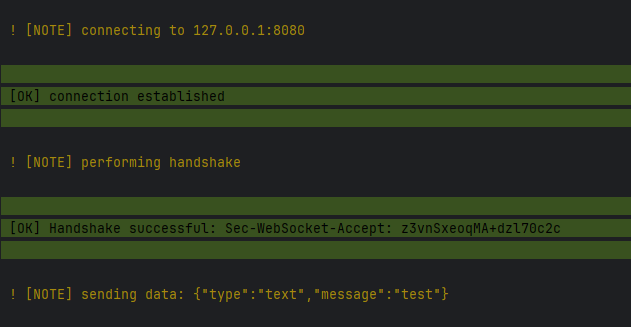
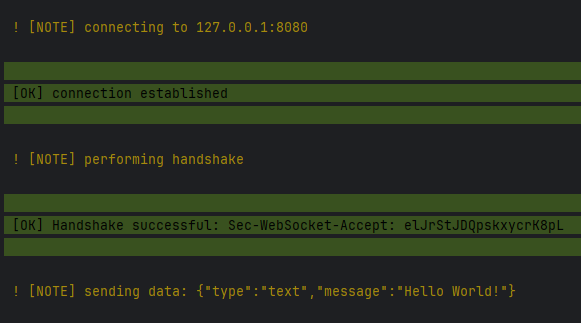
improve readme

diff --git a/src/Command/WebsocketTestCommand.php b/src/Command/WebsocketTestCommand.php
@@ -58,7 +58,7 @@ class WebsocketTestCommand extends Command
         $headers .= "Sec-WebSocket-Version: 13\r\n\r\n";
         $connection->write($headers);
     }
-    public function connect(string $host = '127.0.0.1', int $port = 8080, string $message = 'test',string $type = 'text'): void {
+    public function connect(string $host = '127.0.0.1', int $port = 8080, string $message = 'Hello World!', string $type = 'text'): void {
 
             $loop = Loop::get();
             $connector = new Connector($loop);
